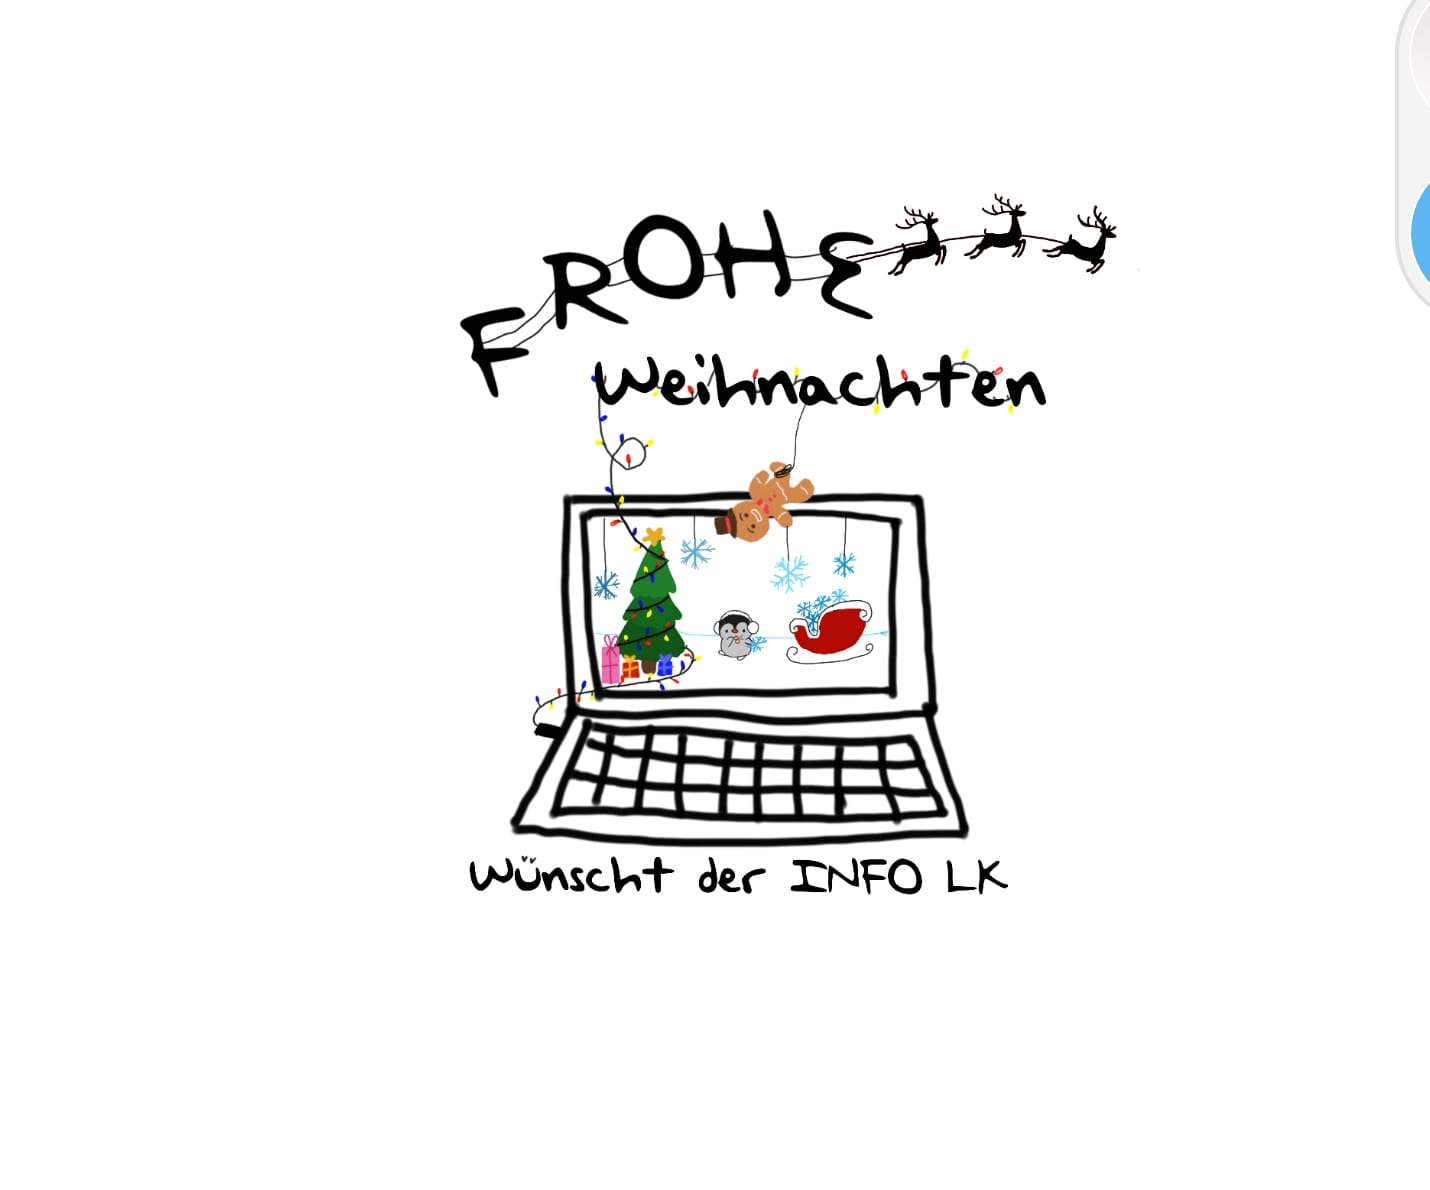
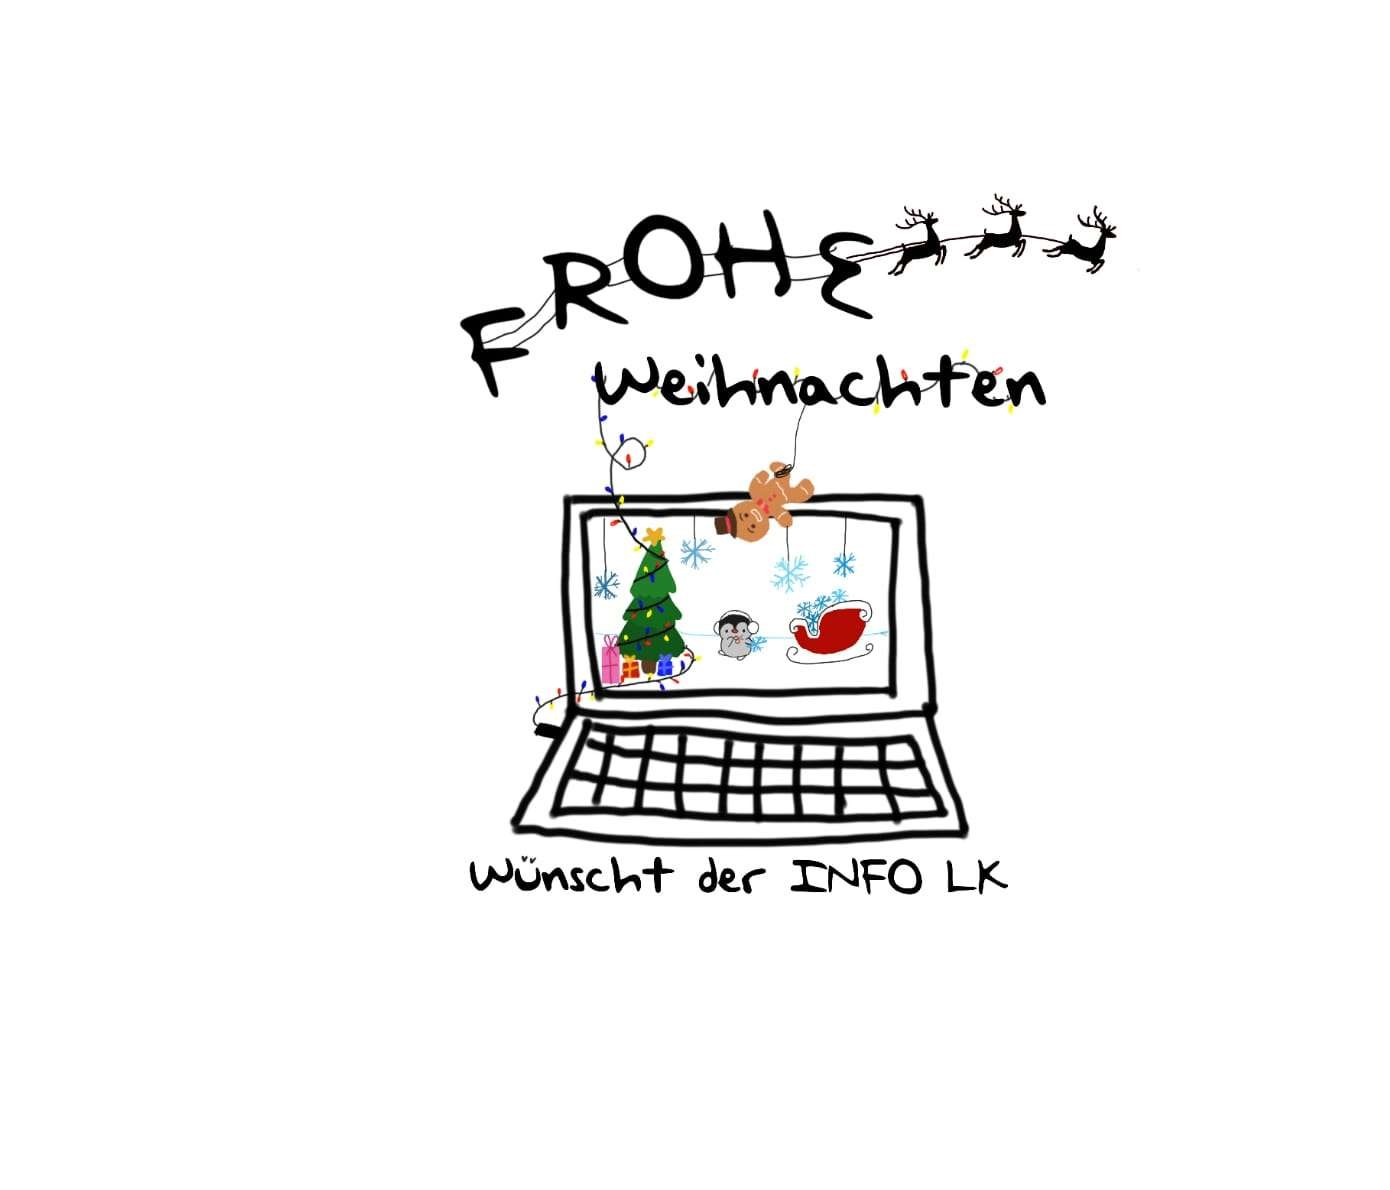
fluid

Changed region(s): [[0.3094, 0.2798, 0.7734, 0.7773], [0.3094, 0.1555, 0.8043, 0.342], [0.959, 0.1555, 1.0, 0.2487]]

diff --git a/index.html b/index.html
@@ -8,7 +8,7 @@
 </head>
 <body>
     <nav class="navbar navbar-expand-lg navbar-light bg-light">
-        <a class="navbar-brand" href="#"><img src="Alpaka.jpg" alt="Cooles Bild" style="width: 80px;"></a>
+        <a class="navbar-brand" class="img-fluid" href="#"><img src="Alpaka.jpg" alt="Cooles Bild" style="width: 80px;"></a>
         <button class="navbar-toggler" type="button" data-toggle="collapse" data-target="#navbarNav" aria-controls="navbarNav" aria-expanded="false" aria-label="Toggle navigation">
             <span class="navbar-toggler-icon"></span>
         </button>
@@ -29,7 +29,7 @@
     <div class="container">
         <h1>Willkommen bei den Wilden Informatikern</h1>
         <p>Wir sind ein Richtig Cooler Informatik LK des Cusanus-Gymnasium-Erkelenz.</p>
-		<img src="Die wilden Infomatiker.jpeg" alt="Cooles Bild">
+		<img src="Die wilden Infomatiker.jpeg" alt="Cooles Bild" class="img-fluid">
     </div>
     <script src="https://code.jquery.com/jquery-3.3.1.slim.min.js"></script>
     <script src="https://stackpath.bootstrapcdn.com/bootstrap/4.3.1/js/bootstrap.min.js"></script>
